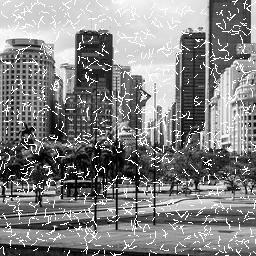
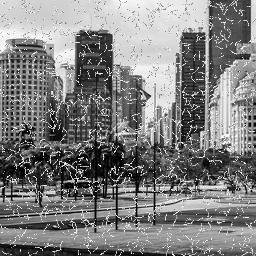
Improved filter_cgp.py (custom window_fn), recreated scratch images

diff --git a/src/filter_cgp.py b/src/filter_cgp.py
@@ -46,7 +46,7 @@ base_params = {
     'runs' : 1, # Number of runs
     'seeds' : None,
     'window_shape' : (3, 3),
-    'detector_fn_name' : 'common.default_detector_fn',
+    'detector_fn_name' : 'common.clipped_detector_fn',
     'population_params': {'n_parents': 12},
     'primitives_str': (
         'common.Const255',
@@ -86,6 +86,9 @@ def serialize_individual(individual : cgp.individual.IndividualBase) -> str:
 
     return json.dumps({
         'fitness' : individual.fitness,
+        'window_fn' : individual.window_fn.__name__ if hasattr(individual, 'window_fn') and individual.window_fn is not None else None,
+        'detector_fn' : individual.detector_fn.__name__ if hasattr(individual, 'detector_fn') and individual.detector_fn is not None else None,
+        'window_shape' : individual.window_shape if hasattr(individual, 'window_shape') and  individual.window_shape is not None else None,
         'sympy' : str(individual.to_sympy()),
         'genome' : str(individual.genome),
         'active_nodes' : cgp.CartesianGraph(individual.genome).print_active_nodes(),
@@ -111,19 +114,26 @@ def apply_filter(individual : cgp.individual.IndividualBase, noised_img_path : s
     window_shape = individual.window_shape if hasattr(individual, 'window_shape') else params['window_shape']
     noised_img_arr_window_view = np.lib.stride_tricks.sliding_window_view(padded_noised_img_arr, window_shape)
 
-    input_data = noised_img_arr_window_view.reshape(
-        noised_img_arr_window_view.shape[0] * noised_img_arr_window_view.shape[1],
-        window_shape[0],
-        window_shape[1]
-    )
-
     func = individual.to_func()
     detector_func = individual.detector_fn if hasattr(individual, 'detector_fn') else common.default_detector_fn
+    window_fn = individual.window_fn if hasattr(individual, 'window_fn') else None
+
+    if window_fn is None:
+        input_data = noised_img_arr_window_view.reshape(
+            noised_img_arr_window_view.shape[0] * noised_img_arr_window_view.shape[1],
+            window_shape[0] * window_shape[1]
+        )
+    else:
+        input_data = window_fn(noised_img_arr_window_view.reshape(
+            noised_img_arr_window_view.shape[0] * noised_img_arr_window_view.shape[1],
+            window_shape[0] * window_shape[1]
+        ))
 
     detector_mask = np.zeros_like(noised_img_arr).flatten()
     img = noised_img_arr.flatten()
+
     for i in range(len(img)):
-        detector, pixel = func(*(input_data[i].flatten()))
+        detector, pixel = func(*(input_data[i]))
         if detector_func(detector):
             img[i] = pixel % 256
             detector_mask[i] = 255
@@ -170,15 +180,22 @@ def prepare_params(params : dict) -> dict:
     else:
         internal_params['detector_fn'] = eval(internal_params['detector_fn_name'])
 
+    if 'window_fn_name' not in internal_params:
+        internal_params['window_fn'] = None
+    else:
+        internal_params['window_fn'] = eval(internal_params['window_fn_name'])
+
     return internal_params
 
 
-def load_training_data(data_paths : list[tuple[str, str]]) -> tuple[np.array, np.array, np.array]:
+def load_training_data(data_paths : list[tuple[str, str]], params : dict) -> tuple[np.array, np.array, np.array]:
     """Loads training data to the format suitable for filter training."""
 
     target_data = []
     noised_data = []
     input_data = []
+
+    window_fn = params['window_fn'] if 'window_fn' in params else None
 
     # Load images and convert them to arrays that are suitable for computation of fitness
     for d in data_paths:
@@ -194,10 +211,16 @@ def load_training_data(data_paths : list[tuple[str, str]]) -> tuple[np.array, np
         padded_noised_img_arr = np.pad(noised_img_arr, 1, 'edge')
         noised_img_arr_window_view = np.lib.stride_tricks.sliding_window_view(padded_noised_img_arr, params['window_shape'])
 
-        input_data.append(noised_img_arr_window_view.reshape(
-            noised_img_arr_window_view.shape[0] * noised_img_arr_window_view.shape[1],
-            params['window_shape'][0] * params['window_shape'][1]
-        ))
+        if window_fn is None:
+            input_data.append(noised_img_arr_window_view.reshape(
+                noised_img_arr_window_view.shape[0] * noised_img_arr_window_view.shape[1],
+                params['window_shape'][0] * params['window_shape'][1]
+            ))
+        else:
+            input_data.append(window_fn(noised_img_arr_window_view.reshape(
+                noised_img_arr_window_view.shape[0] * noised_img_arr_window_view.shape[1],
+                params['window_shape'][0] * params['window_shape'][1]
+            )))
 
         target_data.append(target_img_arr.flatten())
         noised_data.append(noised_img_arr.flatten())
@@ -309,6 +332,7 @@ def run_cgp(
     log['best_fitness'] = pop.champion.fitness
     pop.champion.detector_fn = params['detector_fn']
     pop.champion.window_shape = params['window_shape']
+    pop.champion.window_fn = params['window_fn']
 
     if enable_logging:
         save_log(log, os.path.join(results_path_dir, f"it{run_index}.csv"))
@@ -335,7 +359,7 @@ if __name__ == '__main__':
     timestamp = datetime.now().strftime('%d-%m-%H-%M')
     params_ = prepare_params(params)
 
-    input_data, target_data, noised_data = load_training_data(params_['training_data'])
+    input_data, target_data, noised_data = load_training_data(params_['training_data'], params_)
 
     # Create directory for storing logs and results
     results_path_dir = os.path.join(RESULT_PATH, f"{params['name']}-{timestamp}")

diff --git a/src/noise_images.py b/src/noise_images.py
@@ -136,7 +136,7 @@ def add_line_noise(
 
 # Following code was taken from https://stackoverflow.com/a/76760722
 # and it was edited to be suitable for this project
-def add_scratch(img : Image.Image, noised_pixels_num : int):
+def add_scratch(img : Image.Image, noised_pixels_num : int, pixel_value : tuple[int, int] = (128, 255)):
     """Adds random bezier curves (scratches) to the image."""
 
     from collections.abc import Generator
@@ -164,7 +164,7 @@ def add_scratch(img : Image.Image, noised_pixels_num : int):
         p2 = (p1 + p3) / 2 + [rho2 * np.cos(theta2), rho2 * np.sin(theta2), 0]
 
         for x, y, brush in bezier(p1, p2, p3):
-            cv.circle(img, (x, y), brush, 255, -1)
+            cv.circle(img, (x, y), brush, np.random.randint(pixel_value[0], pixel_value[1] + 1), -1)
         return img
 
     SCRATCH_CNT = int(noised_pixels_num * 0.1) # Noised pixel number is approximated (top limit) if some non-zero rotation is used
